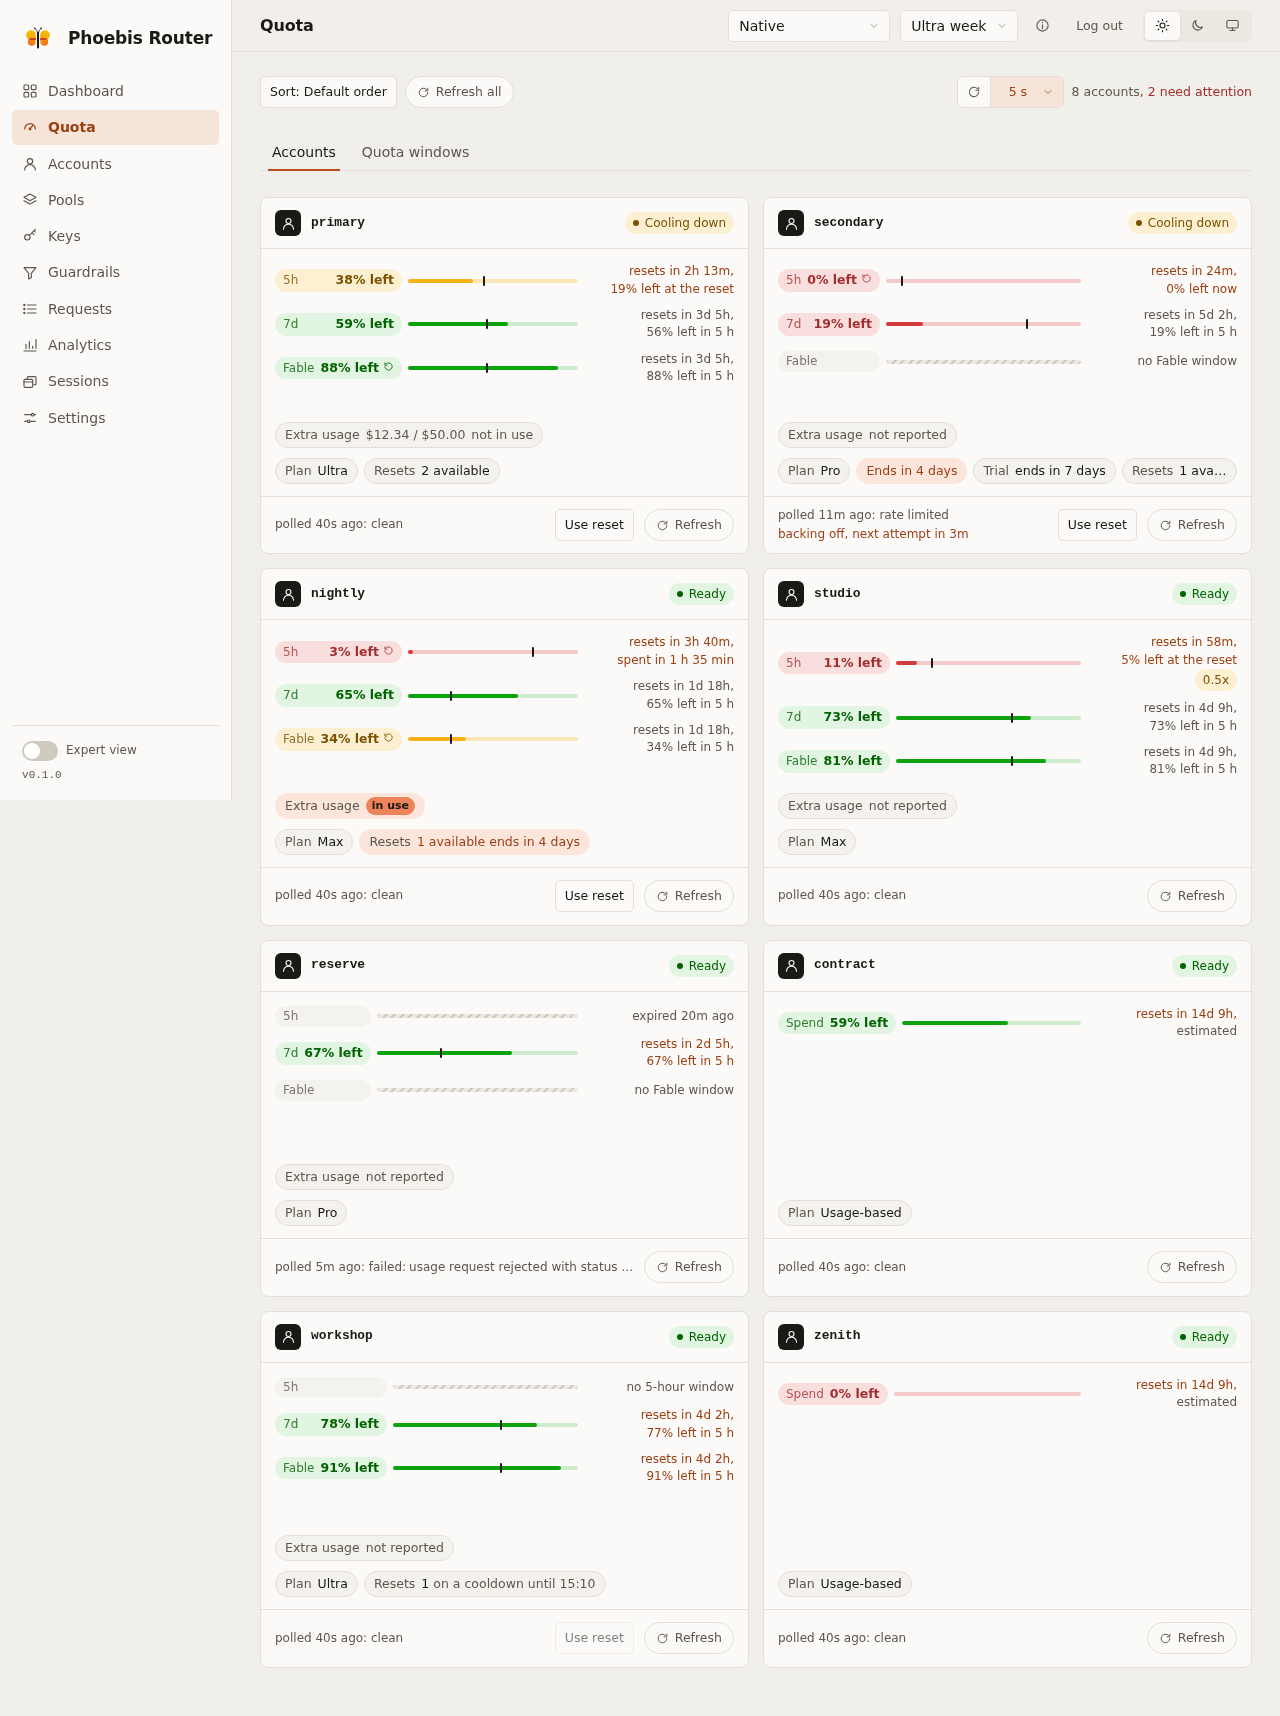
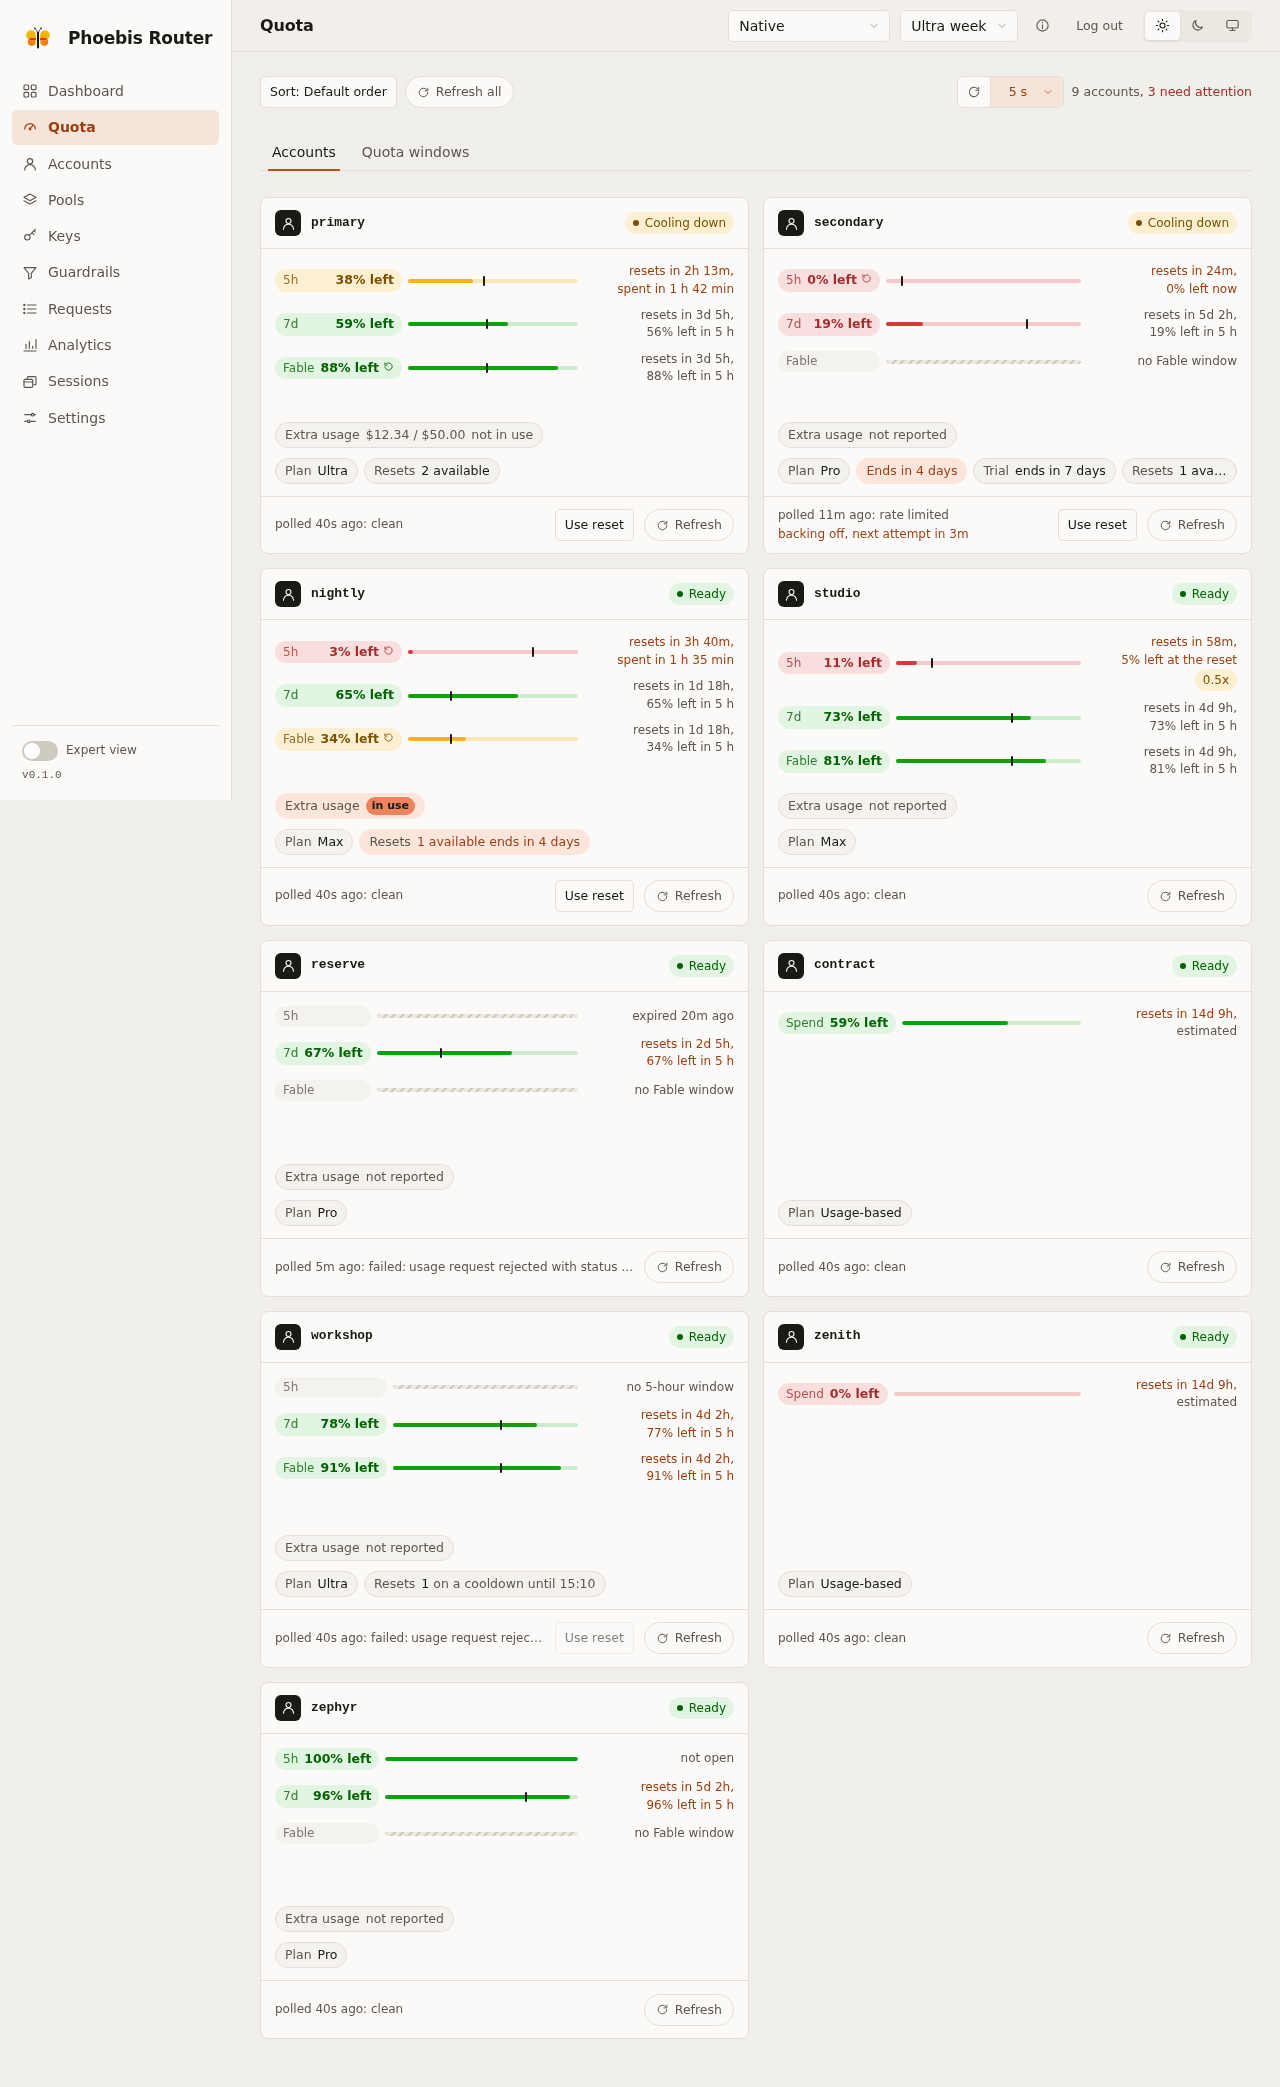
Give a lone failed poll line its reason beside Use reset
The mock's story gains a card whose foot holds Use reset beside one
failed poll line: workshop's last clean poll lies 5 min 40 s back and
its next poll, 40 s back, failed on the endpoint's 503. The routing
log writes that attempt's poll_failed row.

The Quota bar now counts 3 accounts that need attention, up from 2.
The failed-poll consistency case counts workshop's one row beside
nightly's, legacy's and reserve's. Workshop's row shares the hour's
newest instant with studio's cleared window, so the smoke's auto
reload lands 2 rows in the tint, up from 1.

At 375 px the lone line's words took the whole status box and left
the reason no width. Under 900 px that line now runs as text clamped
to the two lines every foot holds room for: the words wrap at a word
boundary and the reason follows, cut with an ellipsis. The browser
pass fails where the reason draws no box inside the status box or the
line stands taller than two lines.

diff --git a/web/src/mock/accounts.ts b/web/src/mock/accounts.ts
@@ -63,6 +63,11 @@ const RESERVE_CLEAN_AGO = 35 * MINUTE;
 /** Reserve's last poll, the sixth 503 at the poll's five-minute cadence since the clean one. */
 const RESERVE_POLLED_AGO = 5 * MINUTE;
 
+/** How long before now workshop's last clean poll read its windows. */
+const WORKSHOP_CLEAN_AGO = 5 * MINUTE + 40_000;
+/** Workshop's last poll, the one 503 at the poll's five-minute cadence since the clean one. */
+const WORKSHOP_POLLED_AGO = 40_000;
+
 /** How long before now sunset's saved end passed. */
 export const SUNSET_END_AGO = 3 * DAY;
 /**
@@ -107,6 +112,8 @@ const SNAPSHOT_OF: Readonly<Record<string, (a: Pick<Account, 'id'>) => QuotaSnap
   // read that set it stands as the last attempt, under the words the usage service records for the pause, while the
   // snapshot keeps the reading of the last clean poll before the end.
   sunset: (a) => failedSinceClean(a.id, SUNSET_LAST_POLL_AGO, ago(SUNSET_FLAGGED_AGO), 'plan ended'),
+  // Reserve's passing 503 at the one slot since the last clean read, while the windows of that read still answer.
+  workshop: (a) => failedSinceClean(a.id, WORKSHOP_CLEAN_AGO, ago(WORKSHOP_POLLED_AGO), 'usage request rejected with status 503'),
 };
 
 /** The reset the router estimates while no head has named the spend window's: 00:00 UTC on the first of next month. */
@@ -480,10 +487,11 @@ const SEEDS = [
     requests: { last24h: 0, last7d: 0, lifetime: 0 },
     cooldowns: [],
   },
-  // The Ultra the upstream approved: its poll stopped carrying the 5-hour window, so the clean poll of 40 s ago reads
-  // the 7-day window, the Opus week and the Fable week alone. After the older seeds, so every seed above keeps its
-  // history's draws, and its id sorts after each of theirs, since a color slot is the id's sorted place: it takes the
-  // API-key overflow's slot, which no ring and no Quota lane draws, and every older account keeps its color.
+  // The Ultra the upstream approved: its poll stopped carrying the 5-hour window, so its last clean poll, 5 min 40 s
+  // ago, read the 7-day window, the Opus week and the Fable week alone, and the poll at the next slot failed on the
+  // endpoint's 503. After the older seeds, so every seed above keeps its history's draws, and its id sorts after each
+  // of theirs, since a color slot is the id's sorted place: it takes the API-key overflow's slot, which no ring and no
+  // Quota lane draws, and every older account keeps its color.
   {
     ...ACCOUNT_SAMPLE,
     id: 'workshop',
@@ -493,8 +501,8 @@ const SEEDS = [
     email: 'operator+workshop@example.com',
     status: 'ready',
     routingEnabled: true,
-    windows: [win('7d', 0.22, 4 * DAY + 2 * HOUR + 10 * MINUTE, 40_000, 0.002), win('seven_day_opus', 0.05, 4 * DAY + 2 * HOUR + 10 * MINUTE)],
-    fableWindow: win('7d_fable', 0.09, 4 * DAY + 2 * HOUR + 10 * MINUTE),
+    windows: [win('7d', 0.22, 4 * DAY + 2 * HOUR + 10 * MINUTE, WORKSHOP_CLEAN_AGO, 0.002), win('seven_day_opus', 0.05, 4 * DAY + 2 * HOUR + 10 * MINUTE, WORKSHOP_CLEAN_AGO)],
+    fableWindow: win('7d_fable', 0.09, 4 * DAY + 2 * HOUR + 10 * MINUTE, WORKSHOP_CLEAN_AGO),
     extraUsage: null,
     fastLane: null,
     credential: {
@@ -735,8 +743,8 @@ function sawtooth(seed: number, resetsAtMs: number, periodMs: number, target: nu
 const HISTORY_SEED: Partial<Record<WindowId, number>> = { '5h': 1, '7d': 2, '7d_fable': 3 };
 
 /**
- * Where an account's samples end: at its last reading, the last clean poll where every poll after it failed (legacy's
- * and reserve's), an unpaired row's last reading before its disconnect, and the rest now.
+ * Where an account's samples end: at its last reading, the last clean poll where every poll after it failed (legacy's,
+ * reserve's and workshop's), an unpaired row's last reading before its disconnect, and the rest now.
  */
 const samplesEndOf = (account: (typeof ACCOUNTS)[number]): number => {
   const last = account.usage?.poll?.lastOutcome === 'failed' ? account.usage.poll.lastCleanAt : account.status === 'unpaired' ? account.usage?.fetchedAt : null;

diff --git a/web/src/styles/pages.css b/web/src/styles/pages.css
@@ -484,8 +484,9 @@
 }
 
 /* A poll line: a failed poll's reason gives way to the line's width first and the line's words next, so the line
-   stays on one line and ends before the control beside it. A lone reading beside Use reset on a narrow card breaks
-   into a second line instead (below). The gap stands in for the space the flex row drops after "failed:". */
+   stays on one line and ends before the control beside it. A lone reading beside Use reset on a narrow card runs as
+   text over two lines instead, its reason after its words (below). The gap stands in for the space the flex row drops
+   after "failed:". */
 .qcard__poll {
   display: flex;
   gap: 0.25em;
@@ -514,9 +515,21 @@
   margin-left: auto;
 }
 
-/* On a narrow card a reading of one line breaks into the second line every foot holds room for. */
+/* On a narrow card beside Use reset the status box is too narrow for a reading of one line, which then runs as text
+   into the second line every foot holds room for: the words whole, breaking at a word where they pass the first line,
+   since they carry the poll's instant, then a failed poll's reason, cut with an ellipsis where the second line ends.
+   The words alone fill the box's width at 375 px, so a line that kept its flex row would leave the reason no width. */
 @media (max-width: 900px) {
   .qcard__foot--use .qcard__poll:only-child {
+    display: -webkit-box;
+    -webkit-box-orient: vertical;
+    -webkit-line-clamp: 2;
+    white-space: normal;
+  }
+
+  /* The reason's own nowrap would keep it in one run wider than the line, which drops whole past the second line,
+     where the clamp hides it. */
+  .qcard__foot--use .qcard__poll:only-child .qcard__reason {
     white-space: normal;
   }
 }

diff --git a/web/src/mock/routingLog.ts b/web/src/mock/routingLog.ts
@@ -2648,6 +2648,13 @@ function reservePolls(): EventSeed[] {
   return failedPolls('reserve', poll.lastCleanAt, Date.parse(poll.lastAttemptAt) + 1);
 }
 
+/** Workshop's one poll after its last clean read, its last attempt, which the endpoint answered 503. */
+function workshopPolls(): EventSeed[] {
+  const poll = accountById.get('workshop')?.usage?.poll;
+  if (!poll?.lastCleanAt || !poll.lastAttemptAt) return [];
+  return failedPolls('workshop', poll.lastCleanAt, Date.parse(poll.lastAttemptAt) + 1);
+}
+
 /**
  * Primary's plan read as ended by the profile read a usage 403 made due, and found again by the next profile read a
  * minute later. While the flag stands the routing reads the account as past its end, so the two sit in a minute of
@@ -2967,6 +2974,7 @@ function buildEvents(): RoutingEvent[] {
     { accountId: 'nightly', at: iso(t(12, 26, 40)), detail: USAGE_503, kind: 'poll_failed' },
     ...legacyPolls(),
     ...reservePolls(),
+    ...workshopPolls(),
     { accountId: 'research', at: iso(RESEARCH_BUDGET_AT), detail: { budget_usd: 20, period: 'day', period_end: startOfDay(RESEARCH_BUDGET_AT) + DAY, source_request_id: BUDGET_CROSSING_ID, spent_usd: 20.4 }, kind: 'budget_reached', poolId: 'jobs', requestId: BUDGET_CROSSING_ID },
     { accountId: 'primary', at: iso(fiveHourReset), detail: { next_reset: fiveHourReset + 5 * HOUR, observed: 'sample', ...currentPair('primary'), reset_at: fiveHourReset, utilization_before: beforeReset, window: 'five_hour' }, kind: 'window_reset' },
     ...WEEKLY_RESETS,

diff --git a/web/e2e/README.md b/web/e2e/README.md
@@ -175,7 +175,9 @@ the Identity card's note, the two sizes recorded, each text recorded), the accou
 (short of the foot's leftmost control, Use reset where the card carries it and else the Refresh pill, and inside the
 card, the backoff line in the serious ink, none wrapping, a failed poll's reason cut inside its line and whole in its
 title where a listed card draws one, and in a 375 by 800 window each card's lines, their heights and the control's left
-edge recorded and nothing failed), the Quota cards' chips and reset cells (each chip and each reset cell without a
+edge recorded, and beside Use reset a lone failed poll line's status box, words and reason widths recorded, the reason
+drawing a box of its own that ends inside the status box and the line no higher than two of its line heights (mock pass:
+the story's `workshop` card)), the Quota cards' chips and reset cells (each chip and each reset cell without a
 projection on one line inside its column, a live label with its projection split between its reset and its projection
 with each part on one line inside the cell, the window grid inside its card, an expired cell's reset on its title where
 a listed card draws one) and each live window's pace mark (inside its meter and taller than the track) and the chip row
